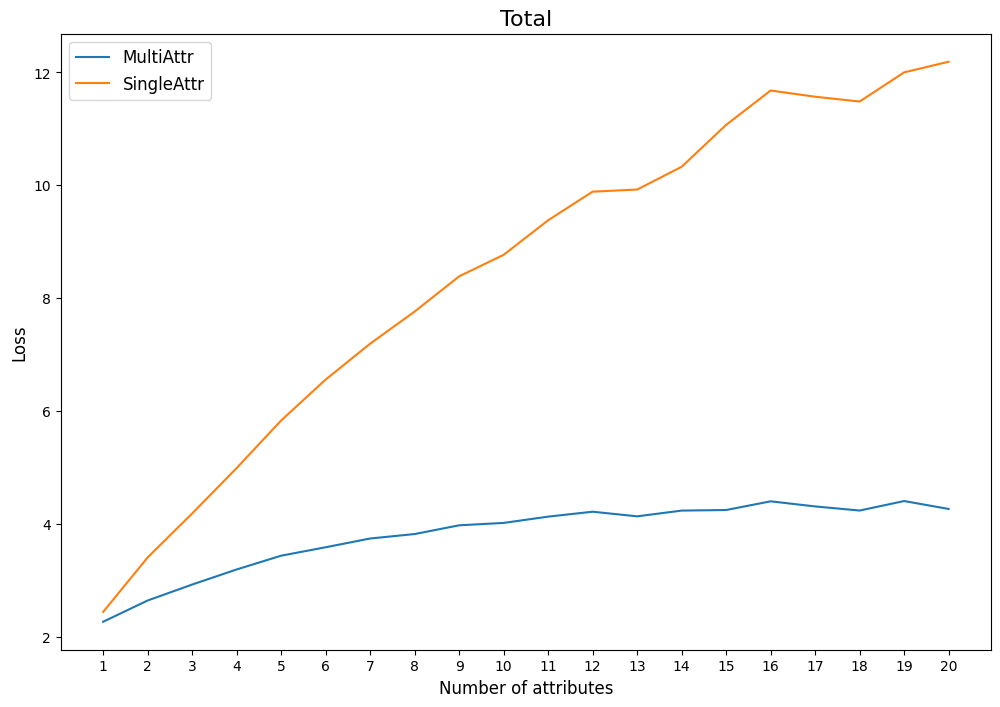
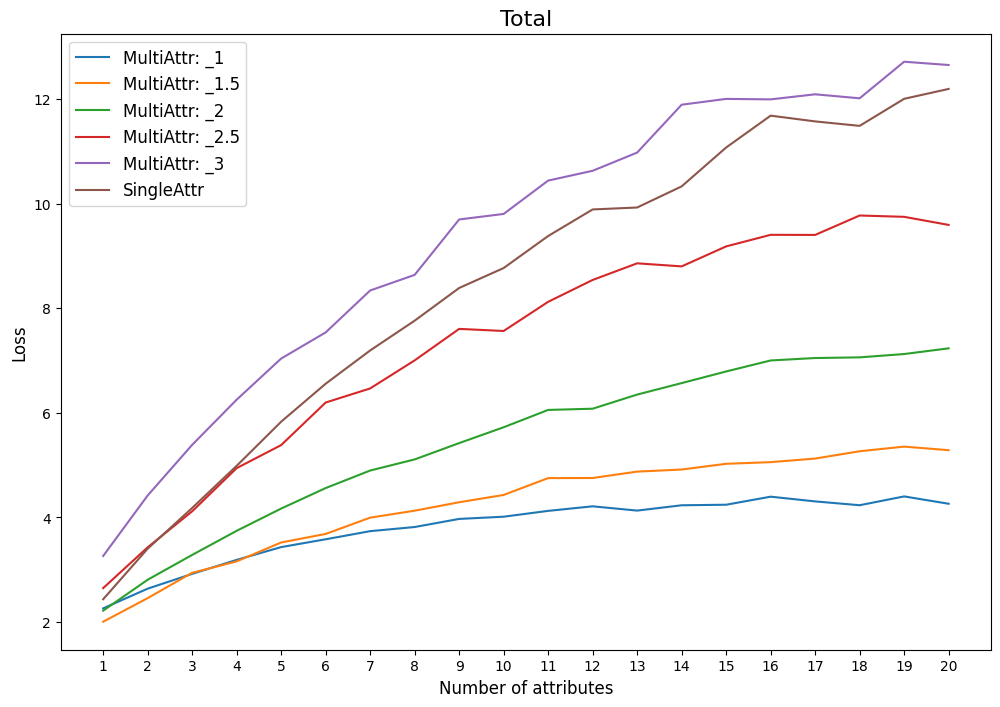
Evaluation using scaled coefficient

diff --git a/evaluation.py b/evaluation.py
@@ -99,7 +99,7 @@ def compute_sequential_loss(w, w_1, attr_nums, coeff, trainer):
     return loss, w_pb * loss_pb, w_reg * loss_reg, w_recon * loss_recon
 
 
-def eval_multi(save_img=True):
+def eval_multi(save_img=True, scaling=1):
     with torch.no_grad():
         
         # Initialize trainer
@@ -119,7 +119,7 @@ def eval_multi(save_img=True):
 
             coeff = torch.tensor(coeffs[k]).to(DEVICE)
 
-            w_1 = trainer.T_net(w_0.view(w_0.size(0), -1), coeff.unsqueeze(0), training=False)
+            w_1 = trainer.T_net(w_0.view(w_0.size(0), -1), coeff.unsqueeze(0), scaling=scaling)
             w_1 = w_1.view(w_0.size())
 
             loss, loss_pb, loss_reg, loss_recon = compute_sequential_loss(w_0, w_1, attr_num, coeff, trainer)
@@ -134,7 +134,7 @@ def eval_multi(save_img=True):
         return losses.mean(dim=0).detach().cpu().numpy()
 
 
-def eval_multi_n(n=1):
+def eval_multi_n(n=1, scaling=1):
     with torch.no_grad():
         
         # Initialize trainer
@@ -147,7 +147,7 @@ def eval_multi_n(n=1):
 
         losses = torch.zeros((n_samples, 4)).to(DEVICE)
 
-        for k in track(range(n_samples), f"Evaluating Multi model for {n} attributes..."):
+        for k in track(range(n_samples), f"Evaluating Multi model for {n} attributes, scaling = {scaling}..."):
             local_attrs = random.sample(range(coeffs.shape[1]), random.randint(1,n))
 
             w_0 = np.load(testdata_dir + 'latent_code_%05d.npy' % k)
@@ -157,7 +157,7 @@ def eval_multi_n(n=1):
             coeff[local_attrs] = coeffs[k][local_attrs]
             coeff = torch.tensor(coeff).to(DEVICE)
 
-            w_1 = trainer.T_net(w_0.view(w_0.size(0), -1), coeff.unsqueeze(0), training=False)
+            w_1 = trainer.T_net(w_0.view(w_0.size(0), -1), coeff.unsqueeze(0), scaling=scaling)
             w_1 = w_1.view(w_0.size())
 
             loss, loss_pb, loss_reg, loss_recon = compute_sequential_loss(w_0, w_1, attr_num, coeff, trainer)
@@ -276,11 +276,11 @@ def eval_single_n(n=1):
         return losses.mean(dim=0).detach().cpu().numpy()
 
 
-def all_n_experiment(suffix="", multi=True, single=True):
+def all_n_experiment(suffix="", multi=True, single=True, scaling=1):
     if multi:
         losses_m = np.zeros((len(attrs), 4))
         for i in range(1,21):
-            losses_m[i-1] = eval_multi_n(i)
+            losses_m[i-1] = eval_multi_n(i, scaling=scaling)
         np.save(f"outputs/evaluation/n_multi{suffix}.npy",losses_m)
 
     if single:
@@ -290,15 +290,22 @@ def all_n_experiment(suffix="", multi=True, single=True):
         np.save(f"outputs/evaluation/n_single.npy",losses_s)
 
 
-def plot_n_comparison(suffix=""):
-    multi = np.load(f"outputs/evaluation/n_multi{suffix}.npy").T
+def plot_n_comparison(suffix="", suffixes=None):
     single = np.load("outputs/evaluation/n_single.npy").T
 
     loss_titles = ["Total", "Class", "Attr_Reg", "Identity_Recon"]
 
     for i, title in enumerate(loss_titles):
         plt.figure(figsize=(12,8))
-        plt.plot(range(1,len(multi[i])+1), multi[i], label="MultiAttr")
+
+        if suffixes:
+            for s in suffixes:
+                multi = np.load(f"outputs/evaluation/n_multi{s}.npy").T
+                plt.plot(range(1,len(multi[i])+1), multi[i], label=f"MultiAttr: {s}")
+        else:
+            multi = np.load(f"outputs/evaluation/n_multi{suffix}.npy").T
+            plt.plot(range(1,len(multi[i])+1), multi[i], label="MultiAttr")
+
         plt.plot(range(1,len(single[i])+1), single[i], label="SingleAttr")
         plt.title(title, fontsize=16)
         plt.xticks(range(1,len(single[i])+1))
@@ -347,5 +354,9 @@ def plot_overall(suffix=""):
 
 if __name__ == "__main__":
     # plot_overall(suffix="_triple")
-    all_n_experiment(single=False, suffix="_triple")
-    plot_n_comparison(suffix="_triple")
+    scaling_factors = [1, 1.5, 2, 2.5, 3]
+    for scaling in scaling_factors:
+        all_n_experiment(multi=True, single=False, suffix=f"_{scaling}", scaling=scaling)
+
+    suffixes = [f"_{s}" for s in scaling_factors]
+    plot_n_comparison(suffixes=suffixes)

diff --git a/trainer.py b/trainer.py
@@ -29,7 +29,7 @@ from constants import NUM_TO_ATTR, DEVICE
 
 
 class Trainer(nn.Module):
-    def __init__(self, config, attr_num, attr, label_file, training=True):
+    def __init__(self, config, attr_num, attr, label_file, scaling=1):
         super(Trainer, self).__init__()
         # Load Hyperparameters
         self.accumulation_steps = 16
@@ -44,7 +44,7 @@ class Trainer(nn.Module):
         self.attr = attr[0]
 
         # To control inference only
-        self.training = training
+        self.scaling = scaling
 
         # self.attr_num = attr_num[0]
         # self.attr = attr[0]
@@ -177,7 +177,7 @@ class Trainer(nn.Module):
         if 'alpha' in self.config and not self.config['alpha']:
             coeff = 2 * target_pb.type_as(attr_pb_0) - 1 
         # Apply latent transformation
-        self.w_1 = self.T_net(self.w_0.view(w.size(0), -1), coeff, training=self.training)
+        self.w_1 = self.T_net(self.w_0.view(w.size(0), -1), coeff, scaling=self.scaling)
         self.w_1 = self.w_1.view(w.size())
         predict_lbl_1 = self.Latent_Classifier(self.w_1.view(w.size(0), -1))
 
@@ -214,7 +214,7 @@ class Trainer(nn.Module):
         target_pb = torch.clamp(attr_pb_0 + coeff, 0, 1).round()
 
         # Apply latent transformation
-        self.w_1 = self.T_net(self.w_0.view(w.size(0), -1), coeff.unsqueeze(0), training=self.training)
+        self.w_1 = self.T_net(self.w_0.view(w.size(0), -1), coeff.unsqueeze(0), scaling=self.scaling)
         self.w_1 = self.w_1.view(w.size())
         predict_lbl_1 = self.Latent_Classifier(self.w_1.view(w.size(0), -1))
 
@@ -261,7 +261,7 @@ class Trainer(nn.Module):
         # coeff_scaled = 10 * coeff.type_as(attr_pb_0)
 
         # Apply latent transformation
-        self.w_1 = self.T_net(self.w_0.view(w.size(0), -1), coeff.unsqueeze(0), training=self.training)
+        self.w_1 = self.T_net(self.w_0.view(w.size(0), -1), coeff.unsqueeze(0), scaling=self.scaling)
         self.w_1 = self.w_1.view(w.size())
         predict_lbl_1 = self.Latent_Classifier(self.w_1.view(w.size(0), -1))
 
@@ -313,7 +313,7 @@ class Trainer(nn.Module):
         if 'alpha' in self.config and not self.config['alpha']:
             coeff = 2 * target_pb.type_as(attr_pb_0) - 1 
 
-        w_1 = self.T_net(w.view(w.size(0), -1), coeff.unsqueeze(0), training=self.training)
+        w_1 = self.T_net(w.view(w.size(0), -1), coeff.unsqueeze(0), scaling=self.scaling)
         w_1 = w_1.view(w.size())
         self.x_0, _ = self.StyleGAN([w], input_is_latent=True, randomize_noise=False)
         self.x_1, _ = self.StyleGAN([w_1], input_is_latent=True, randomize_noise=False)
@@ -348,7 +348,7 @@ class Trainer(nn.Module):
         if 'alpha' in self.config and not self.config['alpha']:
             coeff = 2 * target_pb.type_as(attr_pb_0) - 1 
 
-        w_1 = self.T_net(w.view(w.size(0), -1), coeff.unsqueeze(0), training=self.training)
+        w_1 = self.T_net(w.view(w.size(0), -1), coeff.unsqueeze(0), scaling=self.scaling)
         w_1 = w_1.view(w.size())
         self.x_0, _ = self.StyleGAN([w], input_is_latent=True, randomize_noise=False)
         self.x_1, _ = self.StyleGAN([w_1], input_is_latent=True, randomize_noise=False)

diff --git a/nets.py b/nets.py
@@ -154,7 +154,7 @@ class F_mapping_multi(nn.Module):
         self.fc0 = Dense_layer(mapping_fmaps * mapping_layers, mapping_fmaps)
         self.fc = Dense_layer(n_attributes * mapping_fmaps, mapping_fmaps*mapping_layers)
         
-    def forward(self, latents_in, coeffs, training=True):
+    def forward(self, latents_in, coeffs, scaling=1):
         # Inputs.
         latents_in = latents_in.type(self.dtype)
         
@@ -169,7 +169,7 @@ class F_mapping_multi(nn.Module):
         x = apply_bias_act(self.fc0(x))
 
         coeffs = coeffs.transpose(0,1)
-        x = x * coeffs
+        x = x * coeffs * scaling
 
         # Scaling factor for inference only
         # if not training:

diff --git a/ui.py b/ui.py
@@ -23,7 +23,7 @@ model = "comp2"
 model = f"{n_attrs}_attrs"
 
 # Init trainer
-trainer = Trainer(config, attr_num, attrs, LABEL_FILE, training=False)
+trainer = Trainer(config, attr_num, attrs, LABEL_FILE, scaling=1)
 trainer.initialize(STYLEGAN, CLASSIFIER)
 trainer.load_model_multi(LOG_DIR + experiment, model)
 trainer.to(DEVICE)
